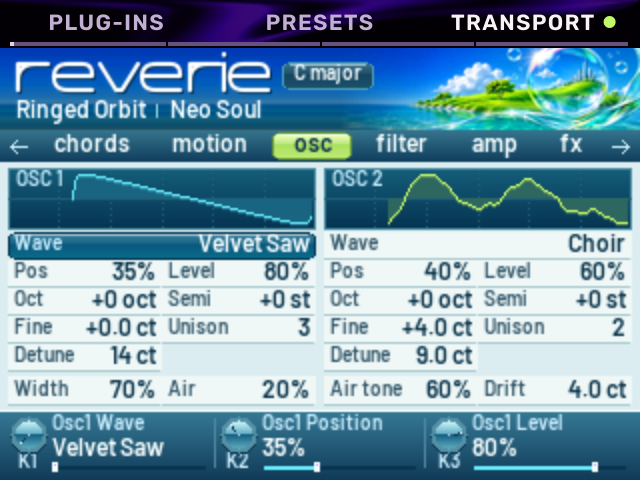
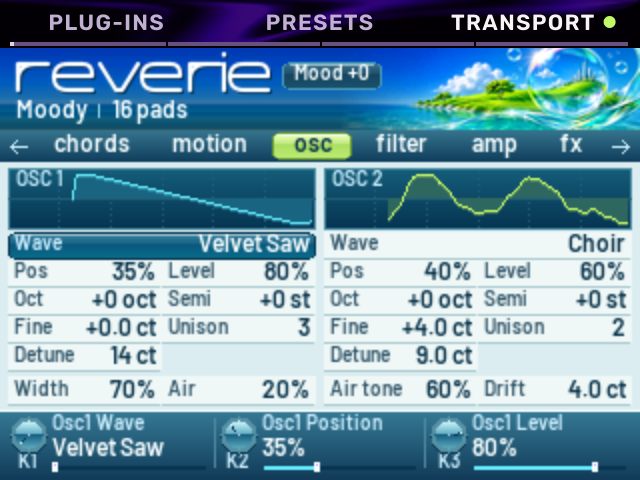
docs: refresh Reverie interface previews for the Mood release

diff --git a/README.md b/README.md
@@ -11,7 +11,7 @@
   <tr>
     <td align="center"><a href="docs/reverie-pages.gif"><img src="docs/reverie-pages.gif" alt="Reverie six Frutiger Aero pages running in hdslaveOS"></a></td>
     <td align="center"><a href="mac-clap/assets/desktop-preview.gif"><img src="mac-clap/assets/desktop-preview.gif" alt="Reverie chord pads, Motion orb and output meter during playback"></a></td>
-    <td align="center"><a href="docs/reverie-sp16-chords.png"><img src="docs/reverie-sp16-chords.png" alt="Reverie on freesp16 with chord pad six held and its notes highlighted"></a></td>
+    <td align="center"><a href="docs/reverie-sp16-chords.png"><img src="docs/reverie-sp16-chords.png" alt="Reverie on freesp16 with the Dawn Mood selected and the notes of pad 6 highlighted"></a></td>
   </tr>
 </table>
 
@@ -32,7 +32,7 @@ hdslaveOS names them Chord 1-8 and Lift 1-8. The custom screen uses `melodee.scr
 
 ## The pads
 
-![The CHORDS page in hdslaveOS, pad 6 just struck](docs/reverie-chords.png)
+![The Chords page in hdslaveOS with the Dawn Mood selected and pad 6 playing](docs/reverie-chords.png)
 
 | Pads | What they play |
 |---|---|
